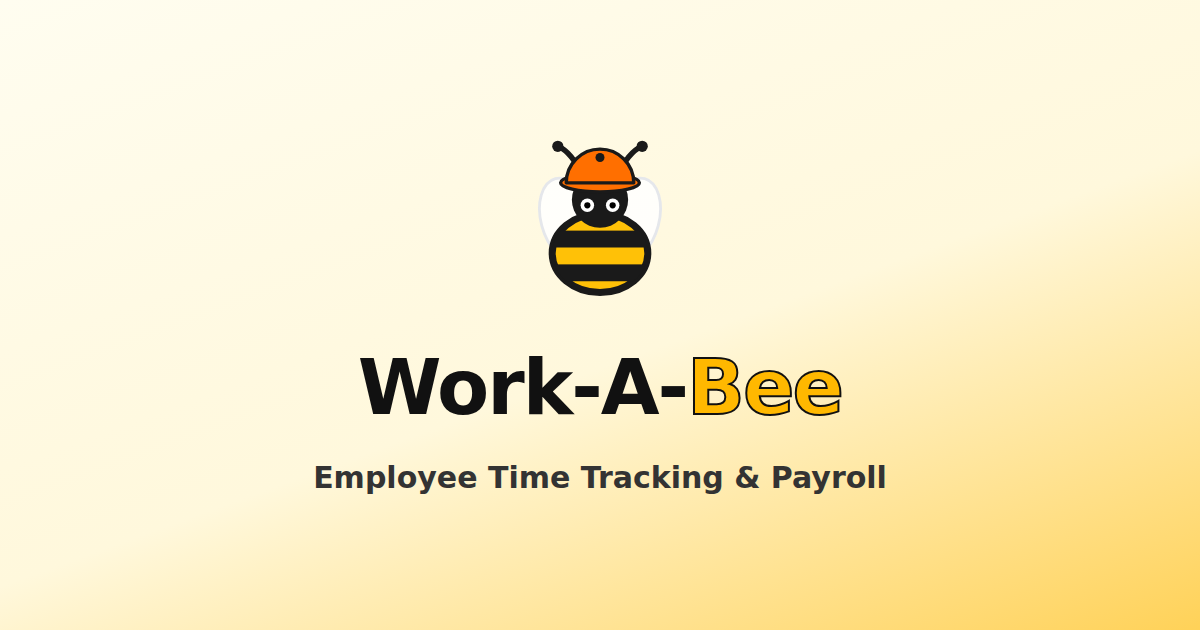
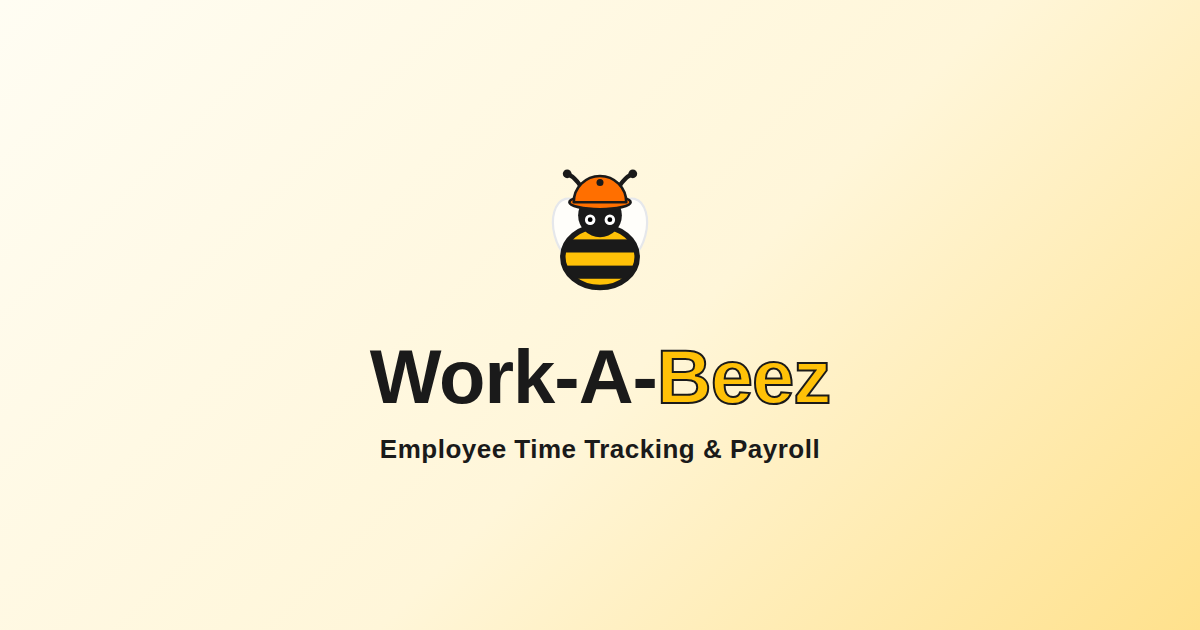
Fix remaining Work-A-Bee -> Work-A-Beez references (og-image + internal docs)
The site-wide rebrand missed two things:
- static/og-image.png (the social-share preview image) had "Work-A-Bee"
  baked in as rendered text. Regenerated it with the same layout/gradient/
  bee icon, now reading "Work-A-Beez".
- The 4 real internal governance documents (BCP, DRP, IRP, TDS) predate the
  rebrand and still referenced "Work-A-Bee" in several places.

The favicon, apple-touch-icon, and logo SVG were already correct (bee icon
only, no text baked in) - checked all three before concluding og-image.png
was the actual source of the "still shows the old name" report.

diff --git a/templates/int_bcp.html b/templates/int_bcp.html
@@ -9,7 +9,7 @@
 <strong>Owner:</strong> Linton Business Solutions, LLC (LBS)</p>
 <hr />
 <h2>1. Purpose</h2>
-<p>The purpose of this Business Continuity Plan ("BCP") is to establish the policies, procedures, and responsibilities necessary to maintain or restore critical business operations following an event that disrupts the normal operation of the Work-A-Bee platform.</p>
+<p>The purpose of this Business Continuity Plan ("BCP") is to establish the policies, procedures, and responsibilities necessary to maintain or restore critical business operations following an event that disrupts the normal operation of the Work-A-Beez platform.</p>
 <p>This plan is intended to:</p>
 <ul>
 <li>Protect employees, customers, and business operations.</li>
@@ -19,7 +19,7 @@
 <li>Maintain regulatory and contractual obligations.</li>
 <li>Support timely recovery of critical services.</li>
 </ul>
-<p>This BCP complements the Work-A-Bee:</p>
+<p>This BCP complements the Work-A-Beez:</p>
 <ul>
 <li>Security Policy</li>
 <li>Incident Response Plan</li>
@@ -38,9 +38,9 @@
 <li>Billing operations</li>
 <li>Identity and authentication services</li>
 <li>Customer communications</li>
-<li>Third-party hosted services supporting Work-A-Bee</li>
+<li>Third-party hosted services supporting Work-A-Beez</li>
 </ul>
-<p>This plan applies to all LBS personnel, contractors, and approved third-party providers supporting the Work-A-Bee platform.</p>
+<p>This plan applies to all LBS personnel, contractors, and approved third-party providers supporting the Work-A-Beez platform.</p>
 <hr />
 <h2>3. Objectives</h2>
 <p>The primary objectives of this Business Continuity Plan are to:</p>
@@ -95,7 +95,7 @@
 </ul>
 <hr />
 <h2>5. Critical Business Functions</h2>
-<p>The following functions are considered critical to Work-A-Bee operations:</p>
+<p>The following functions are considered critical to Work-A-Beez operations:</p>
 <h3>Tier 1 – Mission Critical</h3>
 <ul>
 <li>User authentication</li>
@@ -281,7 +281,7 @@
 <hr />
 <h2>12. Crisis Management Team (CMT)</h2>
 <p>Linton Business Solutions, LLC ("LBS") maintains a Crisis Management Team responsible for coordinating business continuity activities during significant operational disruptions.</p>
-<p>The Crisis Management Team is activated when an event materially impacts Work-A-Bee operations or requires executive coordination.</p>
+<p>The Crisis Management Team is activated when an event materially impacts Work-A-Beez operations or requires executive coordination.</p>
 <h3>Primary Responsibilities</h3>
 <ul>
 <li>Assess the severity of the event</li>
@@ -479,7 +479,7 @@
 <p>Critical operational knowledge should not depend on a single individual.</p>
 <hr />
 <h2>22. Third-Party and Vendor Continuity</h2>
-<p>Work-A-Bee depends on selected third-party providers.</p>
+<p>Work-A-Beez depends on selected third-party providers.</p>
 <p>Business continuity planning includes consideration of:</p>
 <ul>
 <li>Cloud infrastructure providers</li>
@@ -864,7 +864,7 @@
 <tbody>
 <tr>
 <td>Product</td>
-<td>Work-A-Bee</td>
+<td>Work-A-Beez</td>
 </tr>
 <tr>
 <td>Owner</td>
@@ -890,6 +890,6 @@
 </table>
 <hr />
 <h2>Approval</h2>
-<p>This Business Continuity Plan is approved by executive management and serves as the governing framework for maintaining business operations during significant disruptions affecting the Work-A-Bee platform.</p>
+<p>This Business Continuity Plan is approved by executive management and serves as the governing framework for maintaining business operations during significant disruptions affecting the Work-A-Beez platform.</p>
 <p>It should be reviewed periodically to ensure continued effectiveness and alignment with organizational objectives.</p>
 {% endblock %}

diff --git a/templates/int_irp.html b/templates/int_irp.html
@@ -9,7 +9,7 @@
 <strong>Classification:</strong> Internal Confidential<br />
 <strong>Owner:</strong> Linton Business Solutions, LLC (LBS)  </p>
 <h2>1. Purpose</h2>
-<p>The purpose of this Incident Response Plan ("IRP") is to establish a structured and repeatable process for identifying, reporting, investigating, containing, eradicating, recovering from, and documenting information security incidents affecting the Work-A-Bee platform.
+<p>The purpose of this Incident Response Plan ("IRP") is to establish a structured and repeatable process for identifying, reporting, investigating, containing, eradicating, recovering from, and documenting information security incidents affecting the Work-A-Beez platform.
 The objectives of this plan are to:</p>
 <ul>
 <li>Protect Customer Data.</li>
@@ -20,7 +20,7 @@ The objectives of this plan are to:</p>
 <li>Coordinate internal and external communications.</li>
 <li>Improve future security posture through lessons learned.</li>
 </ul>
-<p>This Incident Response Plan supports the Work-A-Bee:</p>
+<p>This Incident Response Plan supports the Work-A-Beez:</p>
 <ul>
 <li>Security Policy</li>
 <li>Business Continuity Plan (BCP)</li>
@@ -40,9 +40,9 @@ The objectives of this plan are to:</p>
 <li>Authentication systems</li>
 <li>Source code repositories</li>
 <li>CI/CD pipelines</li>
-<li>Third-party services supporting Work-A-Bee</li>
+<li>Third-party services supporting Work-A-Beez</li>
 </ul>
-<p>This plan applies to all employees, contractors, and approved third-party service providers supporting Work-A-Bee.</p>
+<p>This plan applies to all employees, contractors, and approved third-party service providers supporting Work-A-Beez.</p>
 <h2>3. Incident Response Objectives</h2>
 <p>The Incident Response Program seeks to:</p>
 <ul>
@@ -364,10 +364,10 @@ Response activities may include:</p>
 </ul>
 <p>Infrastructure changes should be documented and verified before restoring production traffic.</p>
 <h2>21. Third-Party Security Incidents</h2>
-<p>If a third-party service provider experiences a security incident that may affect Work-A-Bee:</p>
+<p>If a third-party service provider experiences a security incident that may affect Work-A-Beez:</p>
 <ul>
 <li>Evaluate the provider's notification.</li>
-<li>Assess potential impact on Work-A-Bee.</li>
+<li>Assess potential impact on Work-A-Beez.</li>
 <li>Determine whether Customer Data may be affected.</li>
 <li>Coordinate remediation with the provider.</li>
 <li>Implement temporary workarounds if feasible.</li>
@@ -590,7 +590,7 @@ All communications should be documented as part of the incident record.</p>
 <p>Access to incident documentation should be restricted to authorized personnel.</p>
 <hr />
 <h2>36. Coordination with Other Plans</h2>
-<p>This Incident Response Plan is designed to operate in conjunction with the following Work-A-Bee governance documents:</p>
+<p>This Incident Response Plan is designed to operate in conjunction with the following Work-A-Beez governance documents:</p>
 <ul>
 <li>Security Policy</li>
 <li>Business Continuity Plan (BCP)</li>
@@ -734,7 +734,7 @@ All communications should be documented as part of the incident record.</p>
 <tbody>
 <tr>
 <td>Product</td>
-<td>Work-A-Bee</td>
+<td>Work-A-Beez</td>
 </tr>
 <tr>
 <td>Owner</td>
@@ -760,6 +760,6 @@ All communications should be documented as part of the incident record.</p>
 </table>
 <hr />
 <h2>Approval</h2>
-<p>This Incident Response Plan is approved by executive management and establishes the governance framework for responding to information security incidents affecting the Work-A-Bee platform.</p>
+<p>This Incident Response Plan is approved by executive management and establishes the governance framework for responding to information security incidents affecting the Work-A-Beez platform.</p>
 <p>The plan should be tested regularly, reviewed after significant incidents, and updated as the platform, threat landscape, and business requirements evolve.</p>
 {% endblock %}

diff --git a/templates/int_tds.html b/templates/int_tds.html
@@ -10,7 +10,7 @@
 <strong>Classification:</strong> Internal Engineering Document</p>
 <hr />
 <h2>1. Purpose</h2>
-<p>This Technical Design Specification (TDS) defines the target architecture, technology standards, engineering principles, and functional components for the Work-A-Bee Software-as-a-Service (SaaS) platform.
+<p>This Technical Design Specification (TDS) defines the target architecture, technology standards, engineering principles, and functional components for the Work-A-Beez Software-as-a-Service (SaaS) platform.
 This document serves as the engineering blueprint for:</p>
 <ul>
 <li>Software developers</li>
@@ -21,10 +21,10 @@ This document serves as the engineering blueprint for:</p>
 <li>Product managers</li>
 <li>Technical reviewers</li>
 </ul>
-<p>Its purpose is to ensure consistent implementation, maintainability, scalability, and security across the Work-A-Bee platform.</p>
+<p>Its purpose is to ensure consistent implementation, maintainability, scalability, and security across the Work-A-Beez platform.</p>
 <hr />
 <h2>2. Product Overview</h2>
-<p><strong>Product Name:</strong> Work-A-Bee<br />
+<p><strong>Product Name:</strong> Work-A-Beez<br />
 <strong>Company:</strong> Linton Business Solutions, LLC<br />
 <strong>Product Type:</strong>
 Cloud-based SaaS Employee Timekeeping and Workforce Management Platform
@@ -44,7 +44,7 @@ Primary capabilities include:</p>
 <p>The platform supports organizations ranging from small businesses to multi-location enterprises.</p>
 <hr />
 <h2>3. Design Principles</h2>
-<p>The Work-A-Bee platform is designed around the following engineering principles:</p>
+<p>The Work-A-Beez platform is designed around the following engineering principles:</p>
 <h3>Security by Design</h3>
 <p>Security controls are integrated throughout the platform lifecycle.</p>
 <h3>Cloud Native</h3>
@@ -389,7 +389,7 @@ No tenant may access another tenant's data.</p>
 </table>
 <hr />
 <h2>12. Document Relationships</h2>
-<p>This Technical Design Specification should be implemented in conjunction with the following Work-A-Bee documentation:</p>
+<p>This Technical Design Specification should be implemented in conjunction with the following Work-A-Beez documentation:</p>
 <ul>
 <li>Product Requirements Specification (PRS)</li>
 <li>Security Policy</li>
@@ -402,12 +402,12 @@ No tenant may access another tenant's data.</p>
 <li>Acceptable Use Policy</li>
 <li>Terms of Service</li>
 </ul>
-<p>Together, these documents establish the functional, technical, operational, and governance requirements for the Work-A-Bee platform.</p>
+<p>Together, these documents establish the functional, technical, operational, and governance requirements for the Work-A-Beez platform.</p>
 <h3>Part 2 – Database Architecture, Data Model, APIs, and Business Workflows</h3>
 <p><strong>Version:</strong> 1.0</p>
 <hr />
 <h2>13. Database Architecture</h2>
-<p>Work-A-Bee uses <strong>PostgreSQL</strong> as the primary relational database.</p>
+<p>Work-A-Beez uses <strong>PostgreSQL</strong> as the primary relational database.</p>
 <p>Design objectives:</p>
 <ul>
 <li>Multi-tenant data isolation</li>

diff --git a/templates/int_drp.html b/templates/int_drp.html
@@ -10,7 +10,7 @@
 <strong>Owner:</strong> Linton Business Solutions, LLC (LBS)</p>
 <hr />
 <h2>1. Purpose</h2>
-<p>The purpose of this Disaster Recovery Plan ("DRP") is to define the technical procedures and governance required to recover the Work-A-Bee platform following a disaster or catastrophic event affecting production systems.</p>
+<p>The purpose of this Disaster Recovery Plan ("DRP") is to define the technical procedures and governance required to recover the Work-A-Beez platform following a disaster or catastrophic event affecting production systems.</p>
 <p>This plan is intended to:</p>
 <ul>
 <li>Restore critical production services.</li>
@@ -21,7 +21,7 @@
 <li>Establish recovery responsibilities.</li>
 <li>Validate restoration before returning to production.</li>
 </ul>
-<p>This DRP supports the Work-A-Bee:</p>
+<p>This DRP supports the Work-A-Beez:</p>
 <ul>
 <li>Business Continuity Plan (BCP)</li>
 <li>Security Policy</li>
@@ -45,7 +45,7 @@
 <li>Infrastructure-as-Code (IaC) assets</li>
 <li>Supporting cloud infrastructure</li>
 </ul>
-<p>This plan applies only to production systems supporting the Work-A-Bee SaaS platform.</p>
+<p>This plan applies only to production systems supporting the Work-A-Beez SaaS platform.</p>
 <hr />
 <h2>3. Objectives</h2>
 <p>The primary objectives of disaster recovery are to:</p>
@@ -61,7 +61,7 @@
 </ul>
 <hr />
 <h2>4. Disaster Recovery Principles</h2>
-<p>The Work-A-Bee disaster recovery program is based on the following principles:</p>
+<p>The Work-A-Beez disaster recovery program is based on the following principles:</p>
 <ul>
 <li>Security First</li>
 <li>Customer Data Protection</li>
@@ -928,7 +928,7 @@
 <tbody>
 <tr>
 <td>Product</td>
-<td>Work-A-Bee</td>
+<td>Work-A-Beez</td>
 </tr>
 <tr>
 <td>Owner</td>
@@ -954,6 +954,6 @@
 </table>
 <hr />
 <h2>Approval</h2>
-<p>This Disaster Recovery Plan is approved by executive management and establishes the technical framework for restoring the Work-A-Bee platform following a disaster.</p>
+<p>This Disaster Recovery Plan is approved by executive management and establishes the technical framework for restoring the Work-A-Beez platform following a disaster.</p>
 <p>The plan should be reviewed, tested, and updated regularly to ensure it remains effective and aligned with the organization's architecture, business objectives, and customer commitments.</p>
 {% endblock %}